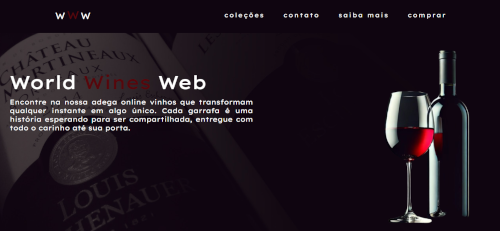
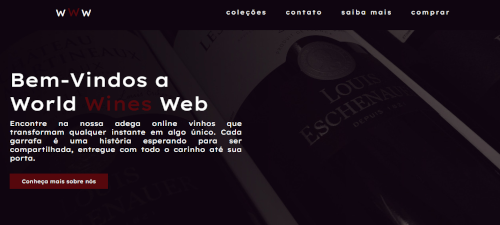
some changes

diff --git a/css/style.css b/css/style.css
@@ -132,30 +132,25 @@ nav {
 }
 
 .main-header {
-  background-image: url('../images/bg4.jpg');
+  background-image: url('../images/bg3.jpg');
   background-size: cover;
   background-position: center;
   background-repeat: no-repeat;
   background-attachment: fixed;
   height: 85vh;
-  display: flex;
-  justify-content: space-between;
-  align-items: start;
-  padding-right: 80px;
   padding-left: 30px;
-  gap: 40px;
 }
 
 .main-header div {
   padding-top: 100px;
   font-family: "Lexend Exa";
   color: #fff;
-  width: 615px;
+  width: min(615px, 50vw);
 }
 
 .main-header div h1 {
   color: #fff;
-  font-size: min(50px, 5vw);
+  font-size: min(50px, 5.5vw);
   font-weight: 500;
 }
 
@@ -166,33 +161,18 @@ nav {
   margin-bottom: 30px;
 }
 
-.main-header div ul li a {
-  position: relative;
-  font-family: 'Lexend Exa';
-  margin-top: 20px;
-  text-decoration: none;
+.main-header div button {
   color: #fff;
-  font-size: clamp(14px, 2vw, 18px);
+  background-color: #56070C;
+  font-family: 'Lexend Exa';
+  text-align: center;
+  width: 260px;
+  height: 40px;
+  border: none;
 }
 
-.main-header div ul li a::before {
-  content: '';
-  position: absolute;
-  top: 100%;
-  left: 0;
-  width: 0;
-  height: 2px;
-  background: #fff;
-  transition: .3s;
-}
-
-.main-header div ul li a:hover::before {
-  width: 100%;
-}
-
-.main-header img {
-  margin-top: 40px;
-  width: max(230px, 18vw);
+.main-header div button:hover {
+  cursor: pointer;
 }
 
 span {
@@ -416,31 +396,6 @@ main .sophistication .text-sophistication ul li a:hover::before {
   width: 100%;
 }
 
-@media (max-width: 768px) {
-  main .sophistication {
-    grid-template-columns: 1fr;
-    text-align: center;
-  }
-
-  main .sophistication .text-sophistication h2 {
-    font-size: 36px;
-  }
-
-  main .sophistication .text-sophistication p {
-    font-size: 16px;
-  }
-
-  main .sophistication .text-sophistication {
-    text-align: center;
-  }
-
-  main .sophistication .text-sophistication ul {
-    display: flex;
-    justify-content: center;
-    font-size: 16px;
-  }
-}
-
 main .zerothree h2 {
   background-color: #E1D9D9;
   color: #E1D9D9;
@@ -535,6 +490,40 @@ main .quality .process div button:hover {
   transition: 0.5s;
 }
 
+@media (max-width: 768px) {
+  main .sophistication {
+    grid-template-columns: 1fr;
+    text-align: center;
+  }
+
+  main .sophistication .text-sophistication h2 {
+    font-size: 36px;
+  }
+
+  main .sophistication .text-sophistication p {
+    font-size: 16px;
+  }
+
+  main .sophistication .text-sophistication {
+    text-align: center;
+  }
+
+  main .sophistication .text-sophistication ul {
+    display: flex;
+    justify-content: center;
+    font-size: 16px;
+  }
+  main .quality .text-quality {
+    width: 430px;
+  }
+  main .quality .text-quality h2 {
+    font-size: 36px;
+  }
+  main .quality .text-quality p {
+    font-size: 16px;
+  }
+}
+
 main .zerofour h2 {
   color: #fff;
   font-size: 150px;
@@ -563,10 +552,14 @@ main .history .first .title-history {
 }
 
 main .history .first .title-history h2 {
-  font-size: 40px;
+  font-size: min(40px, 5vw);
   text-align: right;
-  width: 350px;
+  width: min(350px, 40vw);
   font-weight: 500;
+}
+
+main .history .first .img-history img {
+   width: min(40vw, 340px); 
 }
 
 main .history .data {
@@ -618,7 +611,7 @@ main .history .second {
 
 main .history .second .text-history {
   font-family: "Lexend Exa";
-  font-size: 18px;
+  font-size: min(18px, 40vw);
   color: #310729;
   justify-self: left;
   width: 500px;
@@ -626,4 +619,29 @@ main .history .second .text-history {
 
 main .history .second .text-history p {
   margin-bottom: 20px;
+}
+
+@media (max-width: 950px) {
+  main .history .first {
+    gap: 5px
+  }
+  main .history .first .title-history {
+    justify-self: center;
+  }
+  main .history .first .title-history h2 {
+    text-align: center;
+  } 
+  
+  main .history .second {
+    grid-template-columns: 1fr;
+    justify-items: center;
+    gap: 20px;
+  }
+
+  main .history .second .text-history {
+    justify-self: center;
+    text-align: center;
+    width: 320px;
+    font-size: 16px;
+  }
 }

diff --git a/index.html b/index.html
@@ -30,13 +30,8 @@
         <h1>Bem-Vindos a World <span>Wines</span> Web</h1>
         <p>Encontre na nossa adega online vinhos que transformam qualquer instante em algo único. Cada garrafa é uma
           história esperando para ser compartilhada, entregue com todo o carinho até sua porta.</p>
-        <ul>
-          <li>
-            <a href="#">Conheça mais sobre nós</a>
-          </li>
-        </ul>
+        <button>Conheça mais sobre nós</button>
       </div>
-      <!-- <img src="images/vinho-img2-removebg-preview-test.png" alt=""> -->
     </div>
   </header>
 
